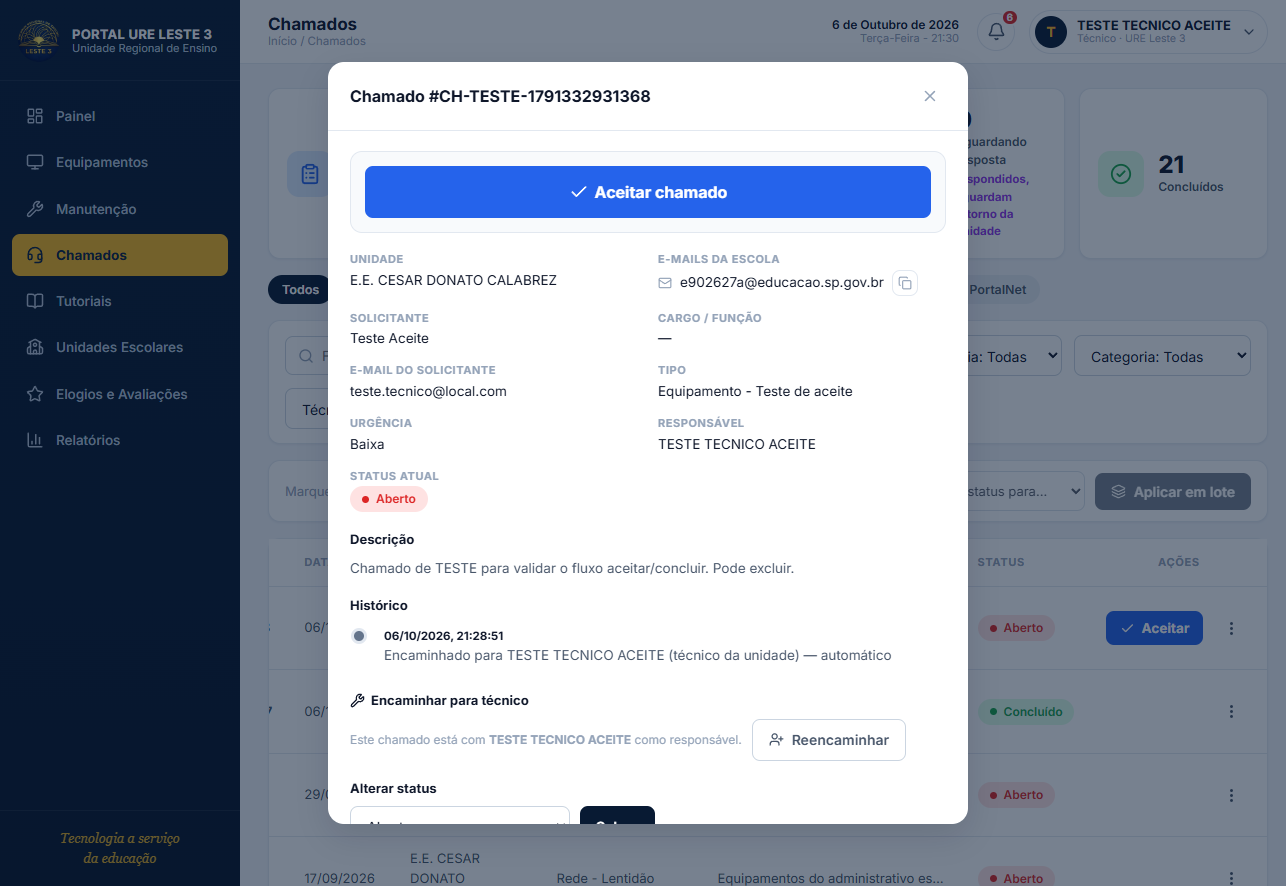
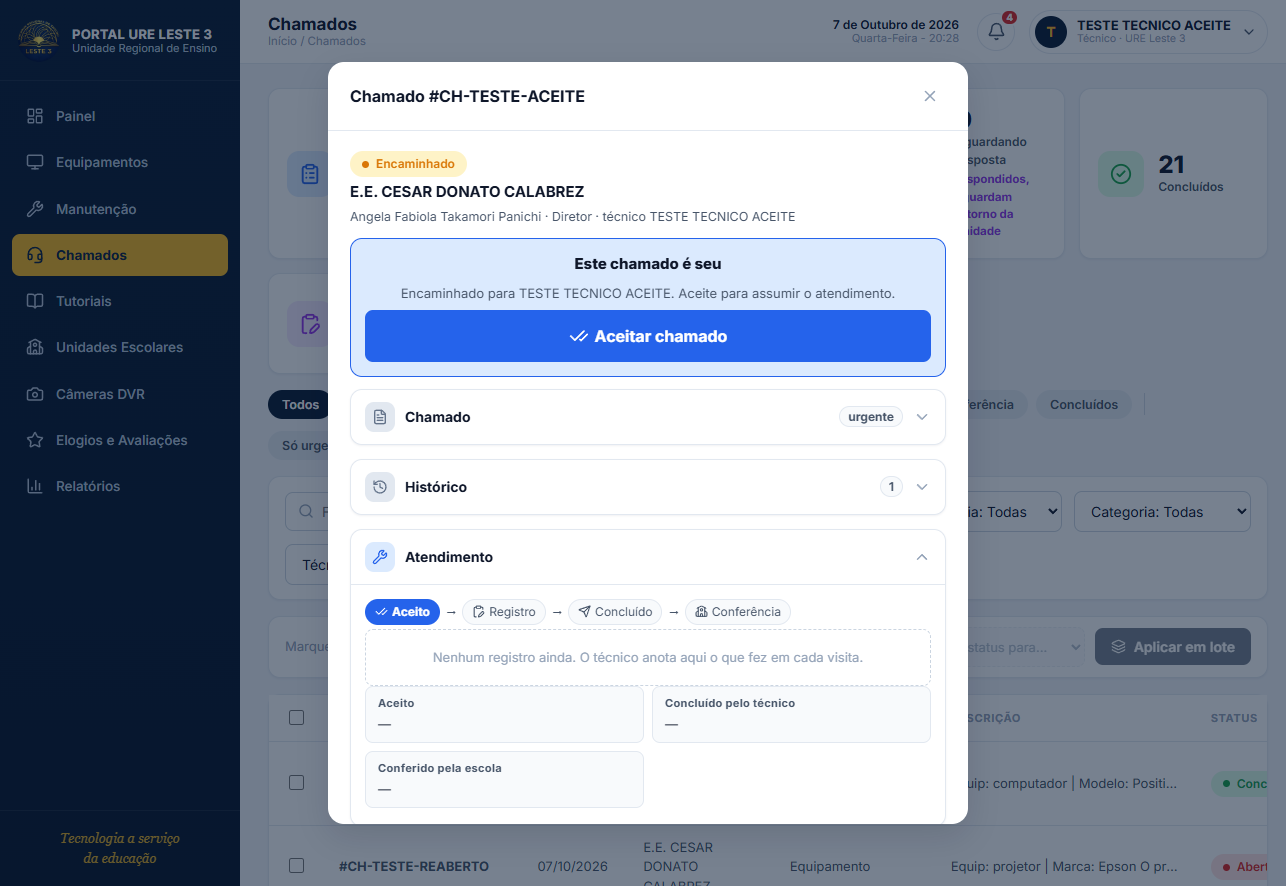
fix(chamados): acoes da lista pelo status, e regrava as prints do fluxo
Regravar as telas do fluxo expôs três defeitos que a documentação antiga
escondia, porque as prints mostravam a tela errada.

1. Chamado contestado ficava sem ação na lista. `podeAceitarNaLinha` e
   `podeConcluirNaLinha` julgavam por `aceitoEm`, que é acumulado entre
   ciclos: contestada, a escola joga o chamado para ABERTO e o carimbo antigo
   continua gravado. O resultado era "Concluir" num chamado em ABERTO — que o
   backend recusa com 409, já que ABERTO não está em STATUS_COM_TECNICO_ACEITO
   — e nenhum "Aceitar", que é justamente o que o técnico precisa refazer.
   Agora as duas funções usam as listas de status, espelhando o backend.

2. A conferência da escola tinha perdido a escolha. O botão da barra de ação
   abria direto o formulário de "Confirmar e encerrar", escondendo "Ficou
   faltando" — e contestar é caminho normal, não exceção. A barra agora só rola
   até os dois botões. Mesma coisa com a resposta da escola à pergunta da
   matriz, que abria o formulário em vez de mostrar a pergunta.

3. `podeConcluirNaLinha` aceitava AGUARDANDO_CONFERENCIA e oferecia concluir
   num chamado que já está na mão da escola.

As 25 imagens dos capítulos 14 foram refeitas contra o frontend e o backend
reais, com chamados sintéticos CH-TESTE-* em cada etapa. O capítulo do fluxo
passa a descrever as seções, a barra única e a exclusividade entre registrar e
concluir; o do aceite ganhou aviso de superado. Entrou uma print nova
[…]

diff --git a/src/views/ChamadosView.vue b/src/views/ChamadosView.vue
@@ -349,14 +349,29 @@ function ehDoTecnico(c: Chamado): boolean {
  * partir de `detalhe`. São duas coisas diferentes — aqui o chamado é um item da
  * lista e o técnico precisa estar de celular, um toque e pronto; lá o técnico
  * pode registrar o serviço, anexar foto e descrever a conclusão.
+ *
+ * O que a BARRA DE AÇÃO do modal mostra está em `acaoDoMomento`, que usa
+ * `podeAceitar`/`podeRegistrar`. Aqui na linha é a mesma regra, com o mesmo
+ * cuidado: o que decide é o STATUS, não `aceitoEm`.
+ *
+ * `aceitoEm` é acumulado entre ciclos — contestada, a escola joga o chamado
+ * para ABERTO e o carimbo antigo continua gravado. Julgando por ele, um
+ * chamado contestado aparecia com "Concluir" (que o backend recusa com 409) e
+ * sem "Aceitar", que é justamente o que o técnico precisa fazer de novo.
  */
 function podeAceitarNaLinha(c: Chamado): boolean {
-  return ehDoTecnico(c) && !c.aceitoEm && ['ABERTO', 'ENCAMINHADO'].includes(c.status)
+  return ehDoTecnico(c) && AGUARDANDO_ACEITE.includes(c.status)
 }
 
-/** Já aceito e não concluído: mostra "Concluir chamado" na linha. */
+/**
+ * Já aceito neste ciclo e ainda não entregue à escola: mostra "Concluir".
+ *
+ * Espelha `STATUS_COM_TECNICO_ACEITO` do backend — um chamado em ABERTO (reaberto
+ * pela escola) ou RESOLVIDO não pode ser concluído, e o botão que não vai
+ * funcionar é pior do que o botão ausente.
+ */
 function podeConcluirNaLinha(c: Chamado): boolean {
-  return ehDoTecnico(c) && !!c.aceitoEm && !['RESOLVIDO', 'AGUARDANDO_CONFERENCIA'].includes(c.status)
+  return ehDoTecnico(c) && COM_TECNICO_ACEITO.includes(c.status) && c.status !== 'AGUARDANDO_CONFERENCIA'
 }
 
 /** Id do chamado com ação rápida em voo — trava o botão contra toque duplo. */
@@ -1185,18 +1200,31 @@ const acaoDoMomento = computed<{
   const c = detalhe.value
   if (!c) return null
 
-  // Escola: a bola está com ela para confirmar o serviço (ou reabrir).
+  /*
+   // Escola: a bola está com ela para confirmar o serviço (ou reabrir).
+   *
+   * O botão NÃO abre o formulário de aprovação: a conferência tem duas
+   * respostas possíveis e a escolha entre elas é da escola — contestar é um
+   * caminho normal, não uma exceção. Abrir direto em "Confirmar e encerrar"
+   * esconderia o botão de contestar, que é justamente o que o chamado precisa
+   * oferecer. Aqui a barra só leva a escola até a decisão, que fica logo abaixo
+   * dos registros.
+   */
   if (podeConferir.value) {
     return {
       titulo: 'Confira o atendimento',
       dica: `A equipe concluiu em ${c.concluidoEm ? formatDateTime(c.concluidoEm) : '—'}. Confira os registros abaixo e diga se ficou tudo certo.`,
-      rotulo: 'Conferir agora',
+      rotulo: 'Ver a decisão',
       classe: 'btn-verde',
       tom: 'purple',
       icone: ClipboardPen,
       acao: () => {
         secaoAberta.value = 'atendimento'
-        if (!conferenciaAberta.value) abrirConferencia('aprovado')
+        // Espera a seção abrir para rolar até os dois botões, senão o scroll
+        // acontece antes do conteúdo existir.
+        void nextTick(() => {
+          document.querySelector('.conferencia-botoes')?.scrollIntoView({ block: 'center' })
+        })
       },
     }
   }
@@ -1206,13 +1234,15 @@ const acaoDoMomento = computed<{
     return {
       titulo: 'A equipe precisa de um retorno',
       dica: 'Responda a pergunta para o atendimento continuar.',
-      rotulo: 'Responder',
+      rotulo: 'Ver a pergunta',
       classe: 'btn-verde',
       tom: 'purple',
       icone: MessageCircle,
       acao: () => {
-        secaoAberta.value = 'atendimento'
-        if (!responderAberto.value) responderAberto.value = true
+        secaoAberta.value = 'escola'
+        void nextTick(() => {
+          document.querySelector('.acao-pergunta')?.scrollIntoView({ block: 'center' })
+        })
       },
     }
   }

diff --git a/docs/14-fluxo-atendimento-chamado.md b/docs/14-fluxo-atendimento-chamado.md
@@ -114,15 +114,21 @@ Se não houver técnico cadastrado para a unidade, nada quebra: o chamado segue
 
 ### 2. A fila do técnico — `ENCAMINHADO`
 
-O técnico abre o chamado e vê o botão **Aceitar chamado**. O caminho de aceite
-é o único que libera os próximos passos.
+O técnico abre o chamado e vê o botão **Aceitar chamado**, na barra de ação no
+topo do modal. O caminho de aceite é o único que libera os próximos passos.
 
 ![Chamado encaminhado aguardando aceite](screenshots/77-fluxo-15-detalhe-encaminhado-aceitar.png)
 
-Repare nos três cartões de marco no rodapé do modal: *Aceito*, *Concluído pelo
-técnico* e *Conferido pela escola* — todos vazios. Eles vão se preenchendo
-conforme o chamado avança, e é a resposta direta para as perguntas que sempre
-aparecem ("aceito quando?", "quem confirmou que terminou?").
+O modal tem quatro seções que abrem e fecham — *Chamado*, *Histórico*,
+*Atendimento* e *Ações da matriz* — e só uma fica aberta por vez. *Atendimento*
+nasce aberta, porque é onde o técnico trabalha e onde a escola confere; as
+outras nascem fechadas, com o contador no título mostrando que existe conteúdo
+lá dentro sem precisar abrir.
+
+Repare nos três cartões de marco no rodapé da seção aberta: *Aceito*,
+*Concluído pelo técnico* e *Conferido pela escola* — todos vazios. Eles vão se
+preenchendo conforme o chamado avança, e é a resposta direta para as perguntas
+que sempre aparecem ("aceito quando?", "quem confirmou que terminou?").
 
 ---
 
@@ -134,7 +140,7 @@ do servidor.
 
 ![Chamado em atendimento com registros](screenshots/78-fluxo-16-detalhe-andamento.png)
 
-A trilha no topo da caixa *Atendimento* mostra onde o chamado está:
+A trilha no topo da seção *Atendimento* mostra onde o chamado está:
 
 ```
 ✓ Aceito  →  ▌Registro▐  →  Concluído  →  Conferência
@@ -142,11 +148,16 @@ A trilha no topo da caixa *Atendimento* mostra onde o chamado está:
 ```
 
 Passo cumprido fica **verde**; o passo da vez fica **azul** e tem o botão em
-destaque embaixo.
+destaque na barra de ação do topo.
 
 Os anexos destes registros **não expiram** — ao contrário dos anexos da conversa
 (7 dias). Eles são a prova do serviço: a escola precisa conseguir conferir meses
 depois.
+
+O mesmo chamado com o registro na linha do tempo e os dois formulários de serviço
+(registrar e concluir) visíveis abaixo dos marcos:
+
+![Registro na linha do tempo e formulários de serviço](screenshots/78b-fluxo-16b-detalhe-andamento-registros.png)
 
 O formulário de registro, aberto:
 
@@ -156,12 +167,21 @@ E a conclusão, que exige o mesmo texto (é o que a escola vai ler):
 
 ![Concluindo o atendimento](screenshots/80-fluxo-18-detalhe-conclusao.png)
 
+> **Registrar e concluir são exclusivos.** Abrir um dos dois fecha o outro:
+> com o rascunho do registro ainda aberto, dava para mandar a conclusão por
+> cima dele. O botão da barra de ação abre o formulário de registro; o de
+> concluir fica logo abaixo, dentro da mesma seção.
+
 ---
 
 ### 4. A conferência da escola — `AGUARDANDO_CONFERENCIA`
 
 Esta é a etapa que **não existia** antes do fluxo novo. O técnico não encerra o
 chamado: ele entrega o serviço, e quem confirma é a unidade que abriu.
+
+A barra de ação do topo mostra "Confira o atendimento" e leva até a decisão, que
+fica no fim da seção *Atendimento*, logo abaixo dos registros do técnico — a
+escola decide olhando o que foi feito:
 
 ![Conferência do atendimento pela escola](screenshots/81-fluxo-19-detalhe-conferencia-escola.png)
 
@@ -171,6 +191,10 @@ A escola tem dois botões, e a escolha é irreversível no caminho feliz:
 |---|---|
 | **Ficou tudo certo** | → `RESOLVIDO`, grava quem e quando conferiu, avisa o técnico |
 | **Ficou faltando** | → volta para `ABERTO`, conta 1 reabertura, avisa admin + técnico |
+
+> O botão da barra **não** abre direto o formulário de aprovação: contestar é um
+> caminho normal, não uma exceção, e abrir "Confirmar e encerrar" esconderia o
+> botão de contestar. A barra só rola a tela até a escolha.
 
 A contestação exige o texto do que faltou (é ele que orienta o retrabalho); a
 foto é opcional:
@@ -187,8 +211,11 @@ timeline e o cartão "Conferido pela escola" preenchido:
 ![Chamado concluído e conferido](screenshots/83-fluxo-21-detalhe-resolvido.png)
 
 Quando a escola contesta, o chamado volta para `ABERTO` **preservando tudo**: o
-registro da tentativa anterior continua na timeline, marcado como "reaberto Nx",
-e o técnico precisa **aceitar de novo** para registrar e concluir outra vez.
+registro da tentativa anterior continua na linha do tempo, com a contestação
+marcada em vermelho e a etiqueta "reaberto 1x" ao lado do status. O técnico
+precisa **aceitar de novo** para registrar e concluir outra vez — e é por isso
+que a barra de ação volta a pedir o aceite, mesmo com o chamado já tendo sido
+aceitado antes:
 
 ![Chamado reaberto após contestação](screenshots/84-fluxo-22-detalhe-reaberto.png)
 
@@ -327,6 +354,8 @@ ido. Não havia conferência nenhuma nesse caminho.
 | Contador de reabertura | `Chamado.reaberturas` |
 | Notificações | `backend/src/services/notificacoes.ts` |
 | Trilha na tela | `src/views/ChamadosView.vue` |
+| Seções do modal (accordion) | `src/components/ui/BaseAccordion.vue` |
+| Ação do momento (uma só) | `src/views/ChamadosView.vue` → `acaoDoMomento` |
 | Rótulos e tipos do frontend | `src/api/chamados.ts`, `src/types/index.ts` |
 
 > `Chamado.historico` continua sendo **texto** e serve como rastro legível. A
@@ -337,7 +366,7 @@ ido. Não havia conferência nenhuma nesse caminho.
 
 ## Cobertura de teste
 
-`backend/src/routes/chamados.fluxo.test.ts` — 22 casos sobre o que travamos
+`backend/src/routes/chamados.fluxo.test.ts` — 24 casos sobre o que travamos
 acima: aceite indevido, registro antes do aceite, conclusão sem texto,
 contestação sem texto, conferência em chamado não concluído, técnico tentando
 fazer a conferência, e o destino de cada notificação.
@@ -350,10 +379,22 @@ cd chamados/backend && npx vitest run src/routes/chamados.fluxo.test.ts
 
 ## Sobre estas imagens
 
-As capturas foram feitas contra o **frontend real** rodando com um mock do
-backend (sem banco), percorrendo o app de verdade — inclusive clicando nos
-botões do fluxo. Os dados são fictícios, mas as telas, os estados e as
+As capturas foram feitas contra o **frontend e o backend reais**, com o dev
+server (`vite` em `:5173`, backend de chamados em `:10000`) e o banco de
+desenvolvimento. Os chamados mostrados são sintéticos, com prefixo
+`CH-TESTE-`, semeados em cada etapa do fluxo; as telas, os estados e as
 mensagens são os do código de produção.
+
+Para recriá-los:
+
+```bash
+cd chamados/backend && npx tsx _seed-prints.mjs   # semeia os CH-TESTE-*
+```
+
+O script aceita `--limpar` para apagar tudo. Os usuários usados são
+`teste.tecnico@local.com` (técnico), `teste.mae@local.com` (gestor da unidade) e
+`teste.filha@local.com`, todos com a senha `Tec2026..` — criados por
+`_criar-usuarios-teste.mjs`.
 
 Detalhe que só aparece quem tenta: a CSP do `index.html` fixa as portas de
 `connect-src` em `localhost:10000` e `localhost:3000`. Qualquer backend de

diff --git a/docs/14-aceite-e-conclusao-pelo-tecnico.md b/docs/14-aceite-e-conclusao-pelo-tecnico.md
@@ -77,19 +77,25 @@ abrir o detalhe:
 
 ![Lista com botão Aceitar](./screenshots/38-chamados-aceitar-lista.png)
 
-**2. No modal de detalhes** — bloco no **topo**, com botão de largura total e
-altura de toque confortável (52px), difícil de não ver no celular:
+**2. No modal de detalhes** — barra de ação no **topo**, com botão de largura
+total e altura de toque confortável (52px), difícil de não ver no celular:
 
 ![Modal com botão Aceitar chamado](./screenshots/39-chamado-aceitar-modal.png)
 
-Depois do aceite, o bloco mostra o horário em que você assumiu e oferece a
-conclusão:
+Depois do aceite, a mesma barra passa a oferecer o registro do serviço:
 
-![Modal com botão Concluir chamado](./screenshots/40-chamado-concluir-modal.png)
+![Modal com botão Registrar o que foi feito](./screenshots/40-chamado-concluir-modal.png)
 
-E o chamado concluído guarda os dois carimbos no detalhe e na linha do tempo:
+E o chamado concluído e conferido guarda os dois carimbos nos marcos e na
+linha do tempo:
 
 ![Detalhe com Aceito em e Concluído em](./screenshots/41-chamado-carimbos.png)
+
+> O modal mudou depois deste documento: a ação do momento virou uma barra
+> única no topo e o resto virou seções que abrem e fecham. Ver
+> **[14 · Fluxo de atendimento do chamado](./14-fluxo-atendimento-chamado.md)**,
+> que é o capítulo atual do fluxo. As prints acima foram regravadas com a tela
+> nova.
 
 ---
 
